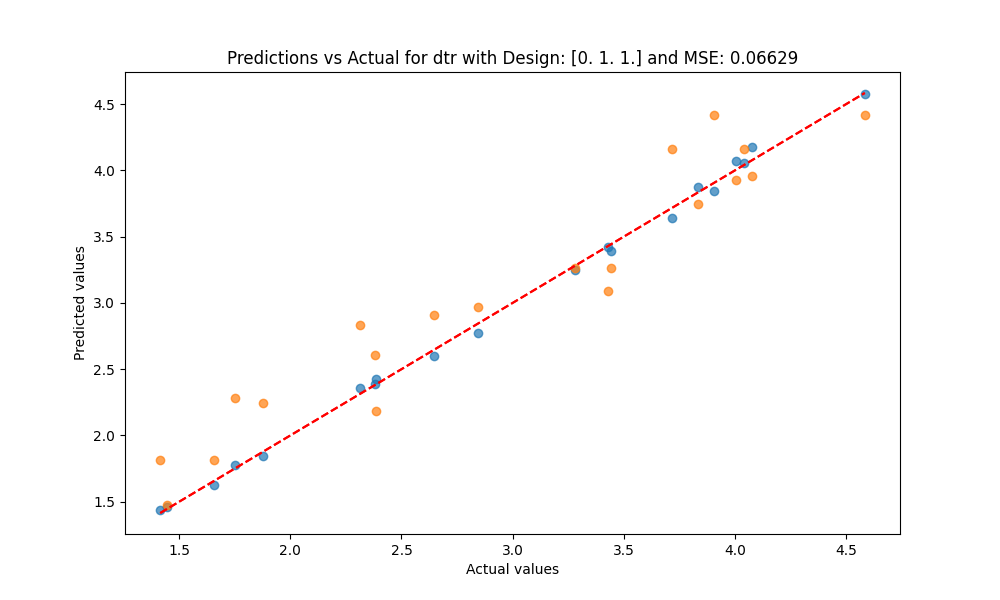
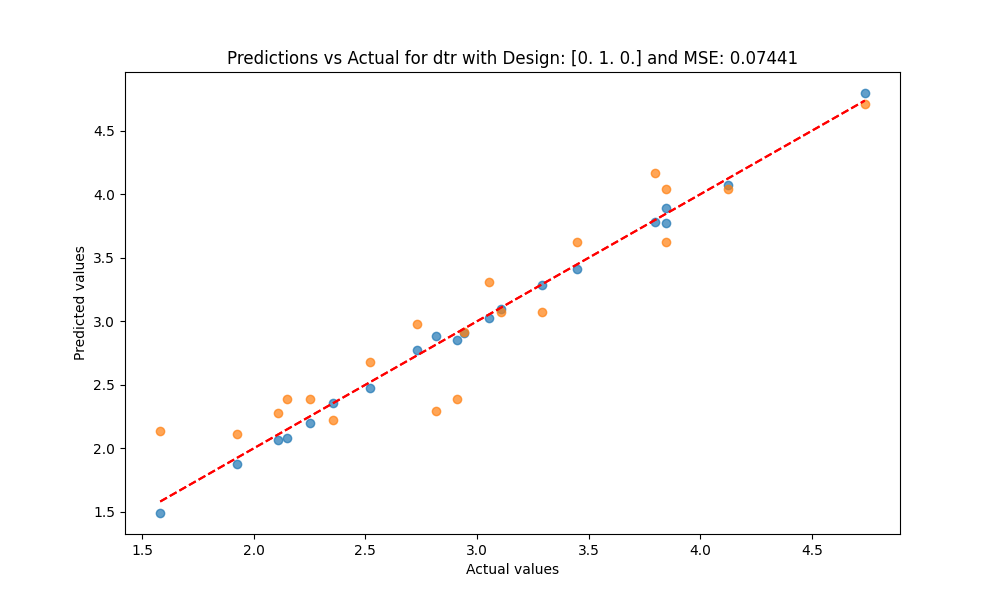
Fixing plots to have mse in title

diff --git a/hw1/src/regressors_comparison.py b/hw1/src/regressors_comparison.py
@@ -104,5 +104,5 @@ for regressor in results:
     plt.plot([min(y_test), max(y_test)], [min(y_test), max(y_test)], color='red', linestyle='--')
     plt.xlabel("Actual values")
     plt.ylabel("Predicted values")
-    plt.title(f"Predictions vs Actual for {regressor} with Design: {min_mse_design} and MSE: {"{:.5f}".format(mse)}")
+    plt.title(f"Predictions vs Actual for {regressor} with Design: {min_mse_design} and MSE: {"{:.5f}".format(min_mse)}")
     plt.savefig(os.path.join('hw1', 'output', regressor + ".png"))
